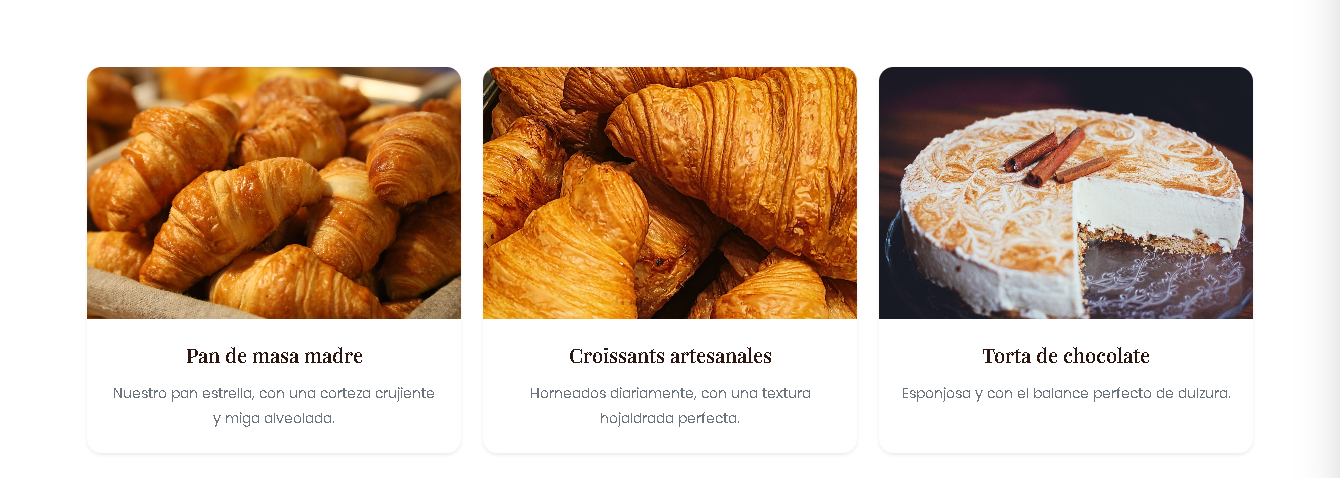
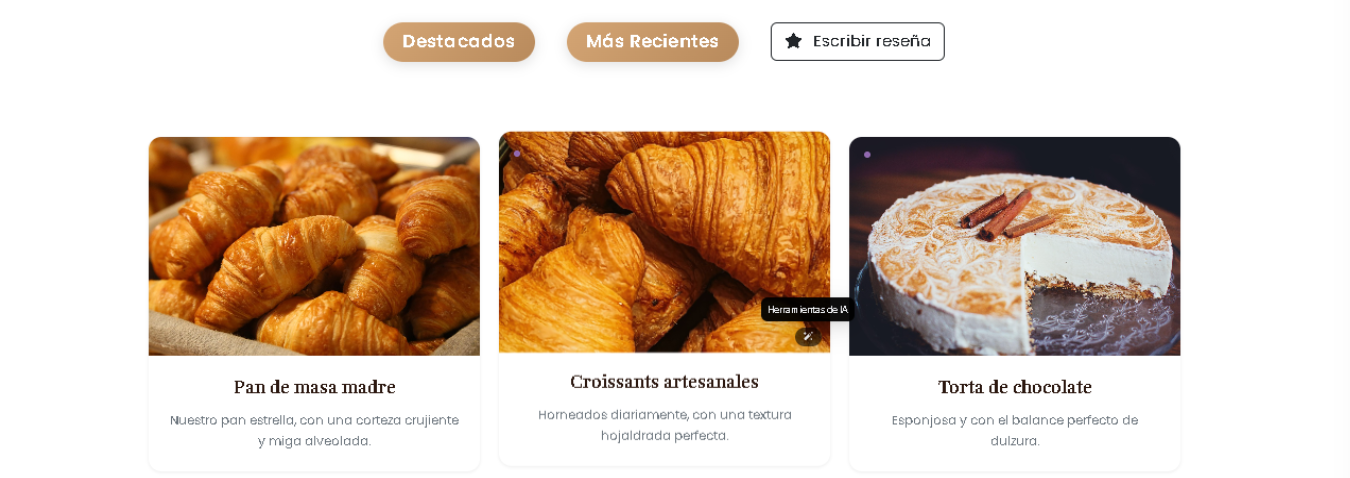
cambios

diff --git a/assets/css/carousel.css b/assets/css/carousel.css
@@ -102,13 +102,24 @@
 .inner-carousel-item {
     min-width: 100%;
     box-sizing: border-box;
+    /* Styles for centering removed as we are forcing width 100% */
+    background-color: #f9f9f9;
+    /* Optional subtle background */
+    /* Padding to create safe gap and white border visual */
+    padding: 0 2px;
+}
+
+.inner-carousel-item:last-child {
+    border-right: none;
 }
 
 .inner-carousel-item img {
     width: 100%;
+    max-width: 100%;
     display: block;
     height: auto;
-    object-fit: cover;
+    object-fit: contain;
+    /* Ensures entire image is visible without cropping, stretched to fit width if needed */
 }
 
 /* Internal Navigation (Arrows inside the card) */
@@ -148,13 +159,13 @@
 /* Responsive Overrides (Main Carousel) */
 @media screen and (min-width: 737px) {
     .carousel-item {
-        min-width: 33.333%;
+        min-width: 50%;
     }
 }
 
 @media screen and (max-width: 736px) {
     .carousel-item {
-        min-width: 50%;
+        min-width: 100%;
     }
 }
 

diff --git a/assets/js/carousel.js b/assets/js/carousel.js
@@ -10,8 +10,8 @@
             function getItemsToShow() {
                 if (!isMain) return 1;
                 if (window.innerWidth <= 480) return 1;
-                if (window.innerWidth <= 736) return 2;
-                return 3;
+                if (window.innerWidth <= 736) return 1;
+                return 2;
             }
 
             function generateDots() {
